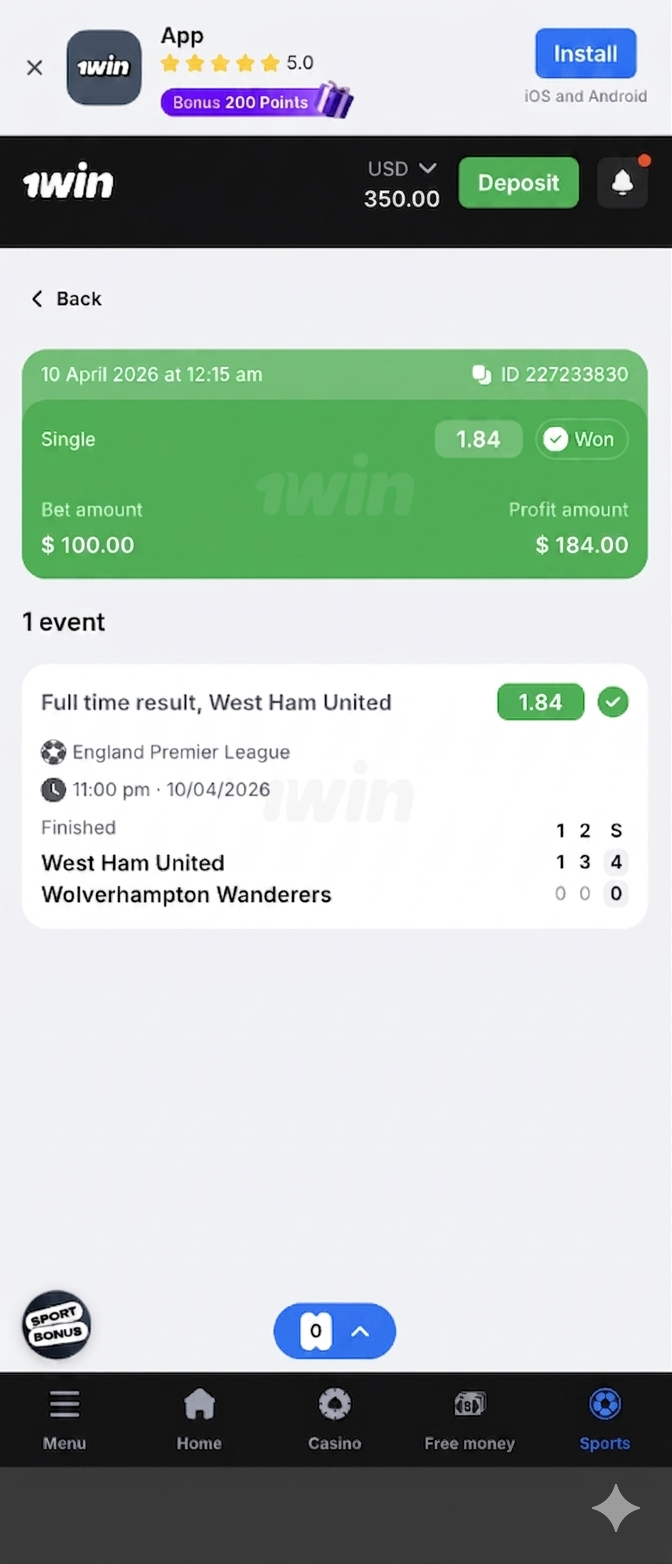
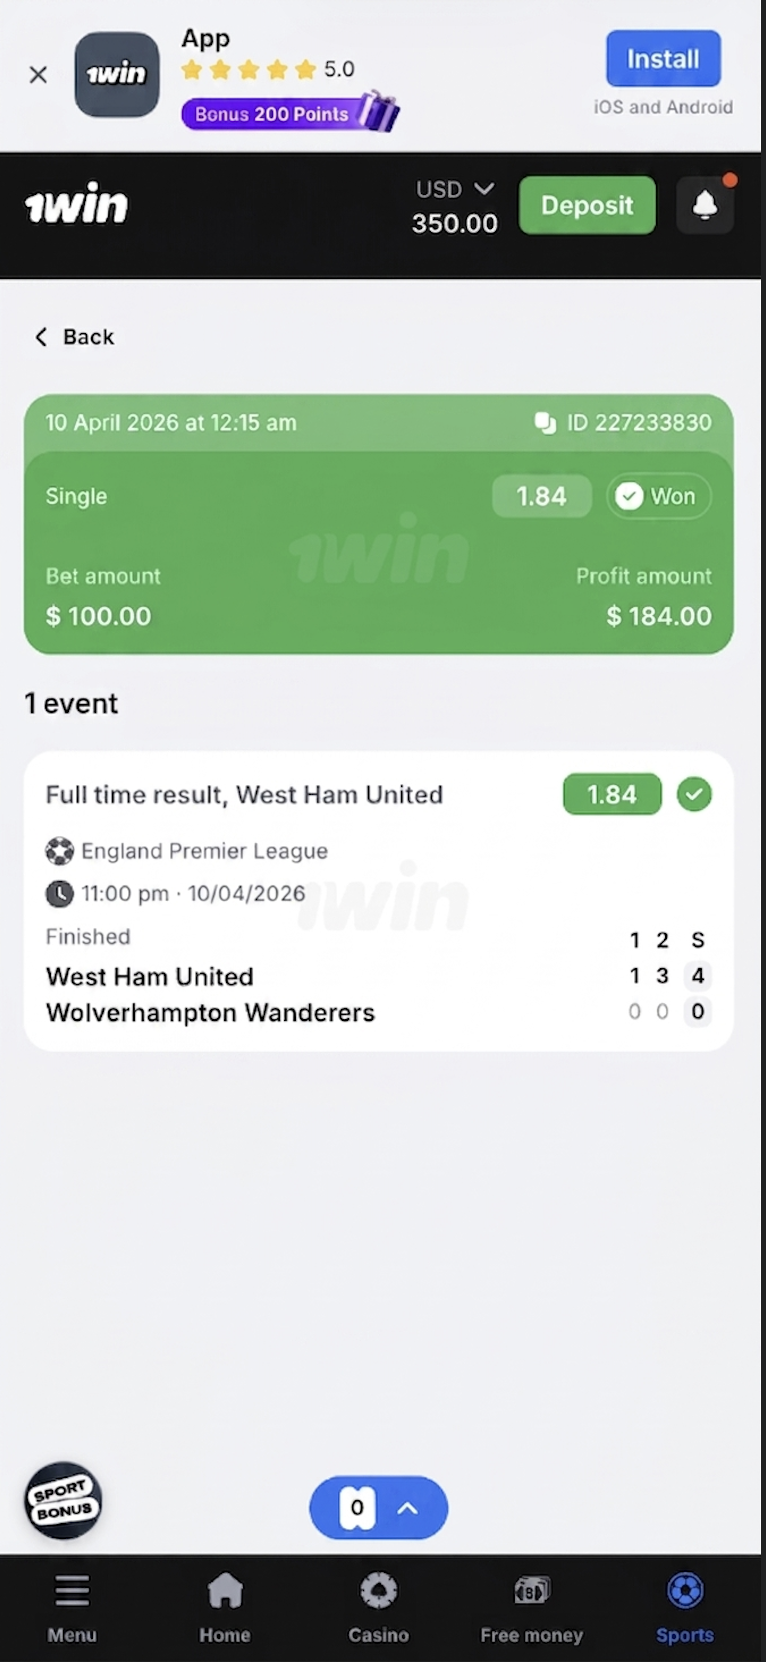
upadte

diff --git a/fortunobet/FortunoBetBot.py b/fortunobet/FortunoBetBot.py
@@ -42,35 +42,35 @@ scheduler = BlockingScheduler()
 # 22:00 — Final Bonus (HYPE)
 
 posts = [
-
+ 
 # ========== MONDAY APRIL 13 (2 posts) ==========
-{"date":"2026-04-13","time":"12:00","content":"⚽ <b>$100 → $184. West Ham United ✅</b>\n\nEngland Premier League. Odds 1.84. 🏴\n$84 profit. One match. Clean start. 💸\n\nWest Ham 3-0. Dominant win.\nThey followed Monday. Already in profit.\n\nYou're still watching? 🔥\n\nDeposit ₦10,000 → play with ₦60,000\n🔑 Code: <code>fortunobet</code>\n👉 <b>Join NOW:</b> https://one-vv858.com/?p=z4m5","images":["win1.png"]},
-{"date":"2026-04-13","time":"22:00","content":"💸 <b>₦216,912 PalmPay — Arrived instant ✅</b>\n\nMarch 12, 10:32 PM. Real phone. 💚\n₦216,912 arrived same minute.\n\nNo delay. No wahala. Just money.\nWithdrawals work EVERY time.\n\nYou can't withdraw what you don't deposit. 🔥\n\nDeposit ₦10,000 → play with ₦60,000\n🔑 Code: <code>fortunobet</code>\n👉 <b>Start:</b> https://one-vv858.com/?p=z4m5","images":["with1.png"]},
+{"date":"2026-04-13","time":"12:00","content":"⚽ <b>$100 → $184. West Ham United ✅</b>\n\nEngland Premier League. Odds 1.84. 🏴\n$84 profit. One match. Clean start. 💸\n\nWest Ham 3-0. Dominant win.\nThey followed Monday. Already in profit.\n\nYou're still watching? 🔥\n\nDeposit ₦10,000 → play with ₦60,000\n🔑 Code: <code>fortunobet</code>\n👉 <b>Join NOW:</b> https://1wzpdo.life/casino/list?open=register&p=z4m5","images":["win1.png"]},
+{"date":"2026-04-13","time":"00:00","content":"💸 <b>₦216,912 PalmPay — Arrived instant ✅</b>\n\nMarch 12, 10:32 PM. Real phone. 💚\n₦216,912 arrived same minute.\n\nNo delay. No wahala. Just money.\nWithdrawals work EVERY time.\n\nYou can't withdraw what you don't deposit. 🔥\n\nDeposit ₦10,000 → play with ₦60,000\n🔑 Code: <code>fortunobet</code>\n👉 <b>Start:</b> https://1wzpdo.life/casino/list?open=register&p=z4m5","images":["with1.png"]},
  
 # ========== TUESDAY APRIL 14 (2 posts) ==========
-# {"date":"2026-04-14","time":"18:00","content":"📲 <b>Deposit ₦500 in 60 seconds ✅</b>\n\nOpay. Palmpay. MTN MoMo. All work. ⚡\nVideo shows every step. Real time.\n\n₦500 = less than one plate of food.\n₦500 → ₦3,000 (bonus works!) 💰\n\nSmart players test. Scared watch. 🔥\n\nDeposit ₦500 → play with ₦3,000\n🔑 Code: <code>fortunobet</code>\n👉 <b>Test:</b> https://one-vv858.com/?p=z4m5","images":["[YOUR VIDEO]"]},
-{"date":"2026-04-14","time":"00:00","content":"🎰 <b>RAKEBACK 50% — Lose? Get money back!</b>\n\nLose today? Get 50% back instantly. 💰\nNo other site does this.\n\nPromo: FORTUNOBET. Works now.\nThey're getting rakeback. You're watching. 🔥\n\nDeposit ₦20,000 → play with ₦120,000\n🔑 Code: <code>fortunobet</code>\n👉 <b>Claim:</b> https://one-vv858.com/?p=z4m5","images":["fortunobet5.jpeg"]},
+{"date":"2026-04-14","time":"22:00","content":"⚽ <b>$100 → $195. Manchester City ✅</b>\n\nEngland Premier League. Odds 1.95. 🏴\n$95 profit. One match. Pattern building. 💸\n\nMan City 3-0. Dominant performance.\nMon: $84 ✅ Wed: $95 ✅\n\nTwo days. Two wins. They're in profit.\nStill watching? 🔥\n\nDeposit ₦20,000 → play with ₦120,000\n🔑 Code: <code>fortunobet</code>\n👉 <b>Join:</b> https://1wzpdo.life/casino/list?open=register&p=z4m5","images":["win2.png"]},
+{"date":"2026-04-14","time":"12:00","content":"🎰 <b>RAKEBACK 50% — Lose? Get money back!</b>\n\nLose today? Get 50% back instantly. 💰\nNo other site does this.\n\nPromo: FORTUNOBET. Works now.\nThey're getting rakeback. You're watching. 🔥\n\nDeposit ₦20,000 → play with ₦120,000\n🔑 Code: <code>fortunobet</code>\n👉 <b>Claim:</b> https://1wzpdo.life/casino/list?open=register&p=z4m5","images":["fortunobet5.jpeg"]},
  
 # ========== WEDNESDAY APRIL 15 (2 posts) ==========
-{"date":"2026-04-15","time":"12:00","content":"💚 <b>[WIN #2 - ADD TOMORROW]</b>\n\n[Sport]. Odds [X.XX]. 🏆\n$[XX] profit. Pattern building. 💸\n\nMon: $84 ✅ Wed: $[XX] ✅\nTwo days. Two wins. They're in profit.\n\nStill watching? 🔥\n\nDeposit ₦20,000 → play with ₦120,000\n🔑 Code: <code>fortunobet</code>\n👉 <b>Join:</b> https://one-vv858.com/?p=z4m5","images":["[WIN2]"]},
-{"date":"2026-04-15","time":"22:00","content":"⚠️ <b>Bonus expires in 48 hours!</b>\n\nRegistered Monday? Expires Wed 11:59 PM.\nRegistered Tuesday? Expires Thu 11:59 PM. ⏰\n\n600% NOT lifetime. 48 hours only.\nAfter deadline: ❌ Gone forever.\n\nDeposit NOW or lose it. 🔥\n\nDeposit ₦5,000 → play with ₦35,000\n🔑 Code: <code>fortunobet</code>\n👉 <b>NOW:</b> https://one-vv858.com/?p=z4m5","images":["fortunobet1.jpeg"]},
+{"date":"2026-04-15","time":"12:00","content":"💚 <b>[WIN #3 - SEND SCREENSHOT TOMORROW]</b>\n\n[Sport]. Odds [X.XX]. 🏆\n$[XX] profit. Pattern continues. 💸\n\nMon: $84 ✅ Wed: $95 ✅ Fri: $[XX] ✅\nThree wins. All GREEN. Pattern proof.\n\nStill watching? 🔥\n\nDeposit ₦20,000 → play with ₦120,000\n🔑 Code: <code>fortunobet</code>\n👉 <b>Join:</b> https://1wzpdo.life/casino/list?open=register&p=z4m5","images":["[WIN3]"]},
+{"date":"2026-04-15","time":"00:00","content":"⚠️ <b>Bonus expires in 48 hours!</b>\n\nRegistered Monday? Expires Wed 11:59 PM.\nRegistered Tuesday? Expires Thu 11:59 PM. ⏰\n\n600% NOT lifetime. 48 hours only.\nAfter deadline: ❌ Gone forever.\n\nDeposit NOW or lose it. 🔥\n\nDeposit ₦5,000 → play with ₦35,000\n🔑 Code: <code>fortunobet</code>\n👉 <b>NOW:</b> https://1wzpdo.life/casino/list?open=register&p=z4m5","images":["fortunobet1.jpeg"]},
  
 # ========== THURSDAY APRIL 16 (2 posts) ==========
-{"date":"2026-04-16","time":"12:00","content":"🎰 <b>500% BONUS — First deposits!</b>\n\n500% on your first deposit. 💰\nPromo: FORTUNOBET.\n\nFast payouts. High multipliers.\nThey deposited yesterday. Already playing. 🔥\n\nDeposit ₦10,000 → play with ₦60,000\n🔑 Code: <code>fortunobet</code>\n👉 <b>Play:</b> https://one-vv858.com/?p=z4m5","images":["fortunobet2.jpeg"]},
-{"date":"2026-04-16","time":"00:00","content":"🎰 <b>PIÑATA WINS — 600% + 500FS!</b>\n\nCatch your win. 💰\n600% bonus + 500 free spins.\n\nFirst deposits only. Code: FORTUNOBET.\nThey're winning. You're watching. 🔥\n\nDeposit ₦10,000 → play with ₦70,000\n🔑 Code: <code>fortunobet</code>\n👉 <b>Catch:</b> https://one-vv858.com/?p=z4m5","images":["fortunobet.png"]},
+{"date":"2026-04-16","time":"12:00","content":"🎰 <b>500% BONUS — First deposits!</b>\n\n500% on your first deposit. 💰\nPromo: FORTUNOBET.\n\nFast payouts. High multipliers.\nThey deposited yesterday. Already playing. 🔥\n\nDeposit ₦10,000 → play with ₦60,000\n🔑 Code: <code>fortunobet</code>\n👉 <b>Play:</b> https://1wzpdo.life/casino/list?open=register&p=z4m5","images":["fortunobet2.jpeg"]},
+{"date":"2026-04-16","time":"00:00","content":"🎰 <b>PIÑATA WINS — 600% + 500FS!</b>\n\nCatch your win. 💰\n600% bonus + 500 free spins.\n\nFirst deposits only. Code: FORTUNOBET.\nThey're winning. You're watching. 🔥\n\nDeposit ₦10,000 → play with ₦70,000\n🔑 Code: <code>fortunobet</code>\n👉 <b>Catch:</b> https://1wzpdo.life/casino/list?open=register&p=z4m5","images":["fortunobet.png"]},
  
 # ========== FRIDAY APRIL 17 (2 posts) ==========
-{"date":"2026-04-17","time":"12:00","content":"💚 <b>[WIN #3 - ADD TOMORROW]</b>\n\n[Sport]. Odds [X.XX]. 🏆\n$[XX] profit. Pattern continues. 💸\n\nMon: $84 ✅ Wed: $[XX] ✅ Fri: $[XX] ✅\nThree wins. All GREEN. Pattern proof.\n\nStill watching? 🔥\n\nDeposit ₦20,000 → play with ₦120,000\n🔑 Code: <code>fortunobet</code>\n👉 <b>Join:</b> https://one-vv858.com/?p=z4m5","images":["[WIN3]"]},
-{"date":"2026-04-17","time":"22:00","content":"🎰 <b>600% CRYPTO BONUS!</b>\n\nFirst crypto deposits get 600%. 💰\nBitcoin. Ethereum. USDT. All work.\n\nPromo: FORTUNOBET. Fast payouts.\nNo fees. They're depositing. You? 🔥\n\nDeposit ₦10,000 → play with ₦70,000\n🔑 Code: <code>fortunobet</code>\n👉 <b>Claim:</b> https://one-vv858.com/?p=z4m5","images":["fortunobet3.jpeg"]},
+# {"date":"2026-04-17","time":"18:00","content":"📲 <b>Deposit ₦500 in 60 seconds ✅</b>\n\nOpay. Palmpay. MTN MoMo. All work. ⚡\nVideo shows every step. Real time.\n\n₦500 = less than one plate of food.\n₦500 → ₦3,000 (bonus works!) 💰\n\nSmart players test. Scared watch. 🔥\n\nDeposit ₦500 → play with ₦3,000\n🔑 Code: <code>fortunobet</code>\n👉 <b>Test:</b> https://1wzpdo.life/casino/list?open=register&p=z4m5","images":["[YOUR VIDEO]"]},
+{"date":"2026-04-17","time":"00:00","content":"🎰 <b>600% CRYPTO BONUS!</b>\n\nFirst crypto deposits get 600%. 💰\nBitcoin. Ethereum. USDT. All work.\n\nPromo: FORTUNOBET. Fast payouts.\nNo fees. They're depositing. You? 🔥\n\nDeposit ₦10,000 → play with ₦70,000\n🔑 Code: <code>fortunobet</code>\n👉 <b>Claim:</b> https://1wzpdo.life/casino/list?open=register&p=z4m5","images":["fortunobet3.jpeg"]},
  
 # ========== SATURDAY APRIL 18 (2 posts) ==========
-{"date":"2026-04-18","time":"12:00","content":"🎰 <b>600% WELCOME BONUS!</b>\n\nNew players get 600% + bonuses. 💰\nPromo: FORTUNOBET.\n\nFast payouts. No fees.\nWeekend players already winning. 🔥\n\nDeposit ₦20,000 → play with ₦140,000\n🔑 Code: <code>fortunobet</code>\n👉 <b>Play:</b> https://one-vv858.com/?p=z4m5","images":["fortunobet.jpeg"]},
-{"date":"2026-04-18","time":"00:00","content":"💸 <b>₦114,646 PalmPay — Instant ✅</b>\n\nMarch 14, 14:33. Real money. 💚\n₦114,646 arrived same minute.\n\nThis week: ₦216k + ₦114k = Both instant.\nTwo withdrawals. Pattern proof. 🔥\n\nYou can't withdraw what you don't deposit.\n\nDeposit ₦10,000 → play with ₦60,000\n🔑 Code: <code>fortunobet</code>\n👉 <b>Start:</b> https://one-vv858.com/?p=z4m5","images":["with2.png"]},
+{"date":"2026-04-18","time":"12:00","content":"🎰 <b>600% WELCOME BONUS!</b>\n\nNew players get 600% + bonuses. 💰\nPromo: FORTUNOBET.\n\nFast payouts. No fees.\nWeekend players already winning. 🔥\n\nDeposit ₦20,000 → play with ₦140,000\n🔑 Code: <code>fortunobet</code>\n👉 <b>Play:</b> https://1wzpdo.life/casino/list?open=register&p=z4m5","images":["fortunobet.jpeg"]},
+{"date":"2026-04-18","time":"00:00","content":"💸 <b>₦114,646 PalmPay — Instant ✅</b>\n\nMarch 14, 14:33. Real money. 💚\n₦114,646 arrived same minute.\n\nThis week: ₦216k + ₦114k = Both instant.\nTwo withdrawals. Pattern proof. 🔥\n\nYou can't withdraw what you don't deposit.\n\nDeposit ₦10,000 → play with ₦60,000\n🔑 Code: <code>fortunobet</code>\n👉 <b>Start:</b> https://1wzpdo.life/casino/list?open=register&p=z4m5","images":["with2.png"]},
  
 # ========== SUNDAY APRIL 19 (3 posts) ==========
 {"date":"2026-04-19","time":"12:00","content":"🏆 <b>FORTUNOBET VIP — 95% Win Rate!</b>\n\n2+ expert picks daily. All sports. 💰\n\n✅ Exact odds · Exact picks\n✅ Pre-match analysis\n✅ Track record daily\n\n💎 <b>JOIN:</b>\n⚡ 7 Days — $1 (50 Stars)\n💎 30 Days — $3 (150 Stars)\n🎁 FREE: Share with 5 friends!\n\nThey're winning. You're watching. 🔥\n\n👉 <b>VIP:</b> https://t.me/FortunoVIPbot","images":["vip.jpg"]},
-{"date":"2026-04-19","time":"17:00","content":"💚 <b>Week 8 summary. All results. ✅</b>\n\nMon: $100 → $184 ✅\nWed: $100 → $[XX] ✅\nFri: $100 → $[XX] ✅\n\nThree wins. Two withdrawals.\n₦216,912 + ₦114,646 = Both instant. 💸\n\nThey deposited Monday. Withdrew profits Friday.\nYou watched all week. 🔥\n\nDeposit ₦100,000 → play with ₦600,000\n🔑 Code: <code>fortunobet</code>\n👉 <b>NOW:</b> https://one-vv858.com/?p=z4m5","images":["with1.png","with2.png"]},
-{"date":"2026-04-19","time":"00:00","content":"⏰ <b>Bonus expires TONIGHT!</b>\n\nRegistered this week? ⚠️ Last hours:\n\nFri register = Expires 11:59 PM tonight\nSat register = Expires Mon 11:59 PM\n\nAfter midnight: ❌ No 600%. Gone.\n\nDeposit NOW or lose it forever. 🔥\n\nDeposit ₦10,000 → play with ₦70,000\n🔑 Code: <code>fortunobet</code>\n👉 <b>LAST CHANCE:</b> https://one-vv858.com/?p=z4m5","images":["fortunobet4.jpeg"]},
+{"date":"2026-04-19","time":"17:00","content":"💚 <b>Week 8 summary. All results. ✅</b>\n\nMon: $100 → $184 ✅\nWed: $100 → $195 ✅\nFri: $100 → $[XX] ✅\n\nThree wins. Two withdrawals.\n₦216,912 + ₦114,646 = Both instant. 💸\n\nThey deposited Monday. Withdrew profits Friday.\nYou watched all week. 🔥\n\nDeposit ₦100,000 → play with ₦600,000\n🔑 Code: <code>fortunobet</code>\n👉 <b>NOW:</b> https://1wzpdo.life/casino/list?open=register&p=z4m5","images":["with1.png","with2.png"]},
+{"date":"2026-04-19","time":"00:00","content":"⏰ <b>Bonus expires TONIGHT!</b>\n\nRegistered this week? ⚠️ Last hours:\n\nFri register = Expires 11:59 PM tonight\nSat register = Expires Mon 11:59 PM\n\nAfter midnight: ❌ No 600%. Gone.\n\nDeposit NOW or lose it forever. 🔥\n\nDeposit ₦10,000 → play with ₦70,000\n🔑 Code: <code>fortunobet</code>\n👉 <b>LAST CHANCE:</b> https://1wzpdo.life/casino/list?open=register&p=z4m5","images":["fortunobet4.jpeg"]},
  
 ]
 